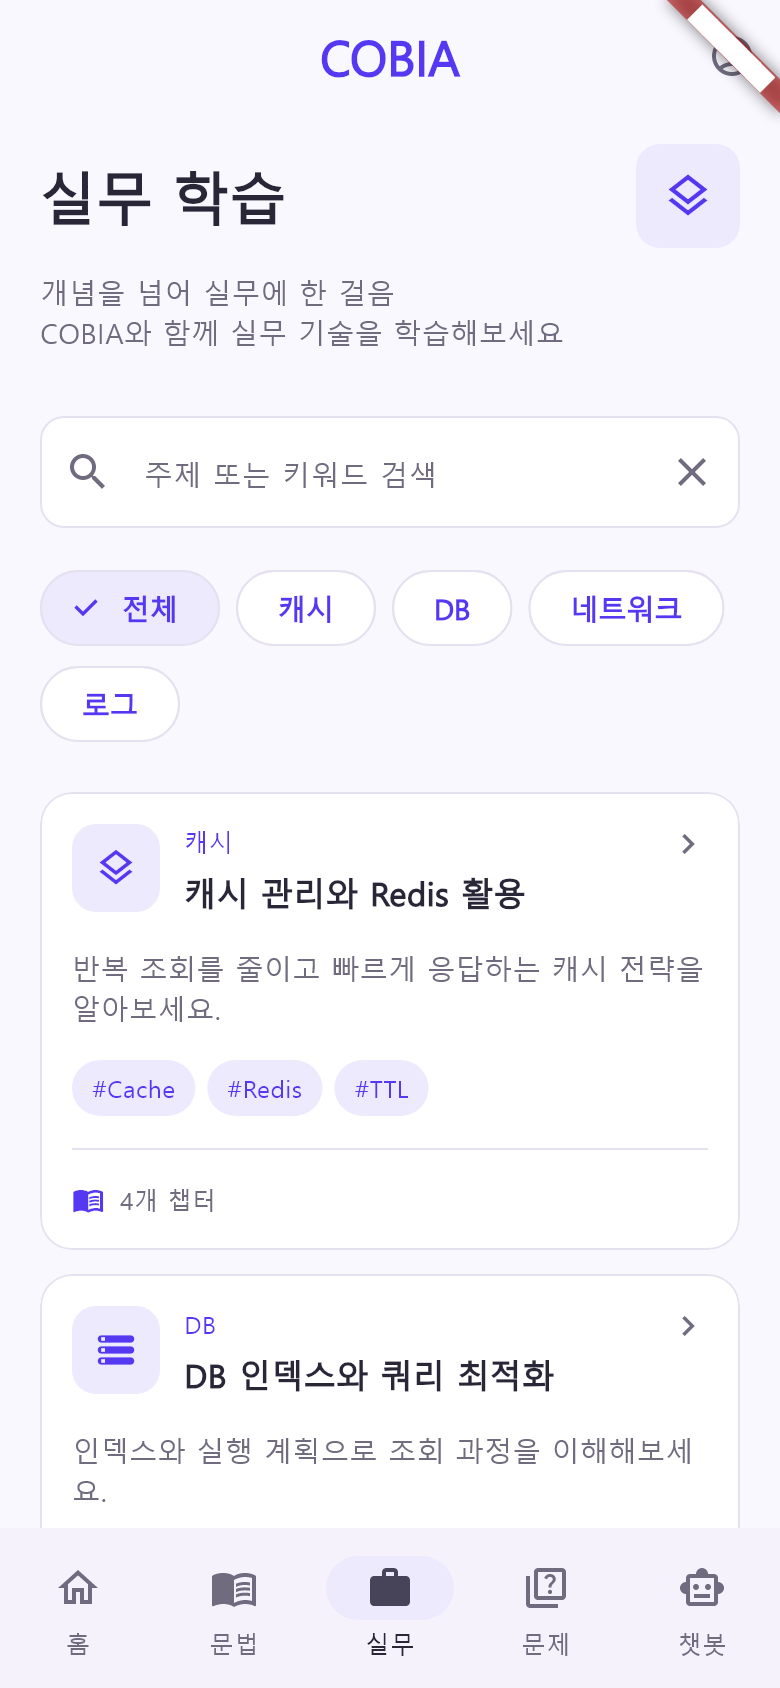
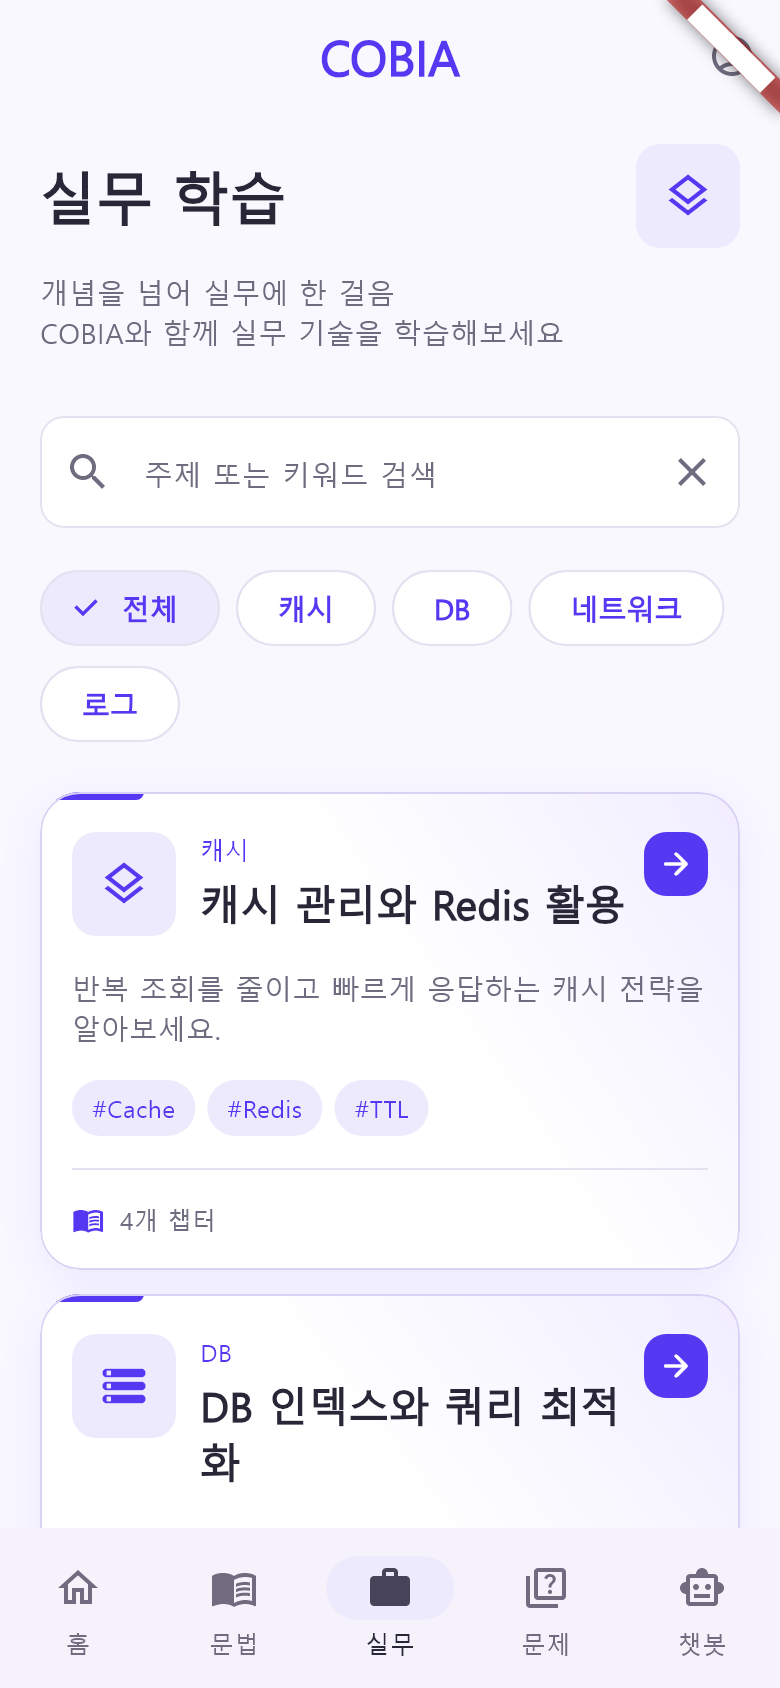
style: 실무 주제 카드 제목 및 진입 표시 강조

diff --git a/lib/features/practical/presentation/practical_topic_card.dart b/lib/features/practical/presentation/practical_topic_card.dart
@@ -1,3 +1,5 @@
+import '../../../app/widgets/learning_card.dart';
+
 import 'package:flutter/material.dart';
 
 import '../../../app/app_ui_tokens.dart';
@@ -20,80 +22,61 @@ class PracticalTopicCard extends StatelessWidget {
       'network' => Icons.language_rounded,
       _ => Icons.analytics_outlined,
     };
-    return Card(
-      margin: EdgeInsets.zero,
-      color: AppColors.surface,
-      elevation: 0,
-      shape: RoundedRectangleBorder(
-        borderRadius: BorderRadius.circular(AppRadii.card),
-        side: const BorderSide(color: AppColors.border),
-      ),
-      clipBehavior: Clip.antiAlias,
-      child: InkWell(
-        onTap: onTap,
-        child: Padding(
-          padding: const EdgeInsets.all(AppSpacing.card),
-          child: Column(
-            crossAxisAlignment: CrossAxisAlignment.stretch,
-            children: [
-              Row(
-                crossAxisAlignment: CrossAxisAlignment.start,
-                children: [
-                  LearningIcon(icon),
-                  const SizedBox(width: 12),
-                  Expanded(
-                    child: Column(
-                      crossAxisAlignment: CrossAxisAlignment.start,
-                      children: [
-                        Text(
-                          topic.category,
-                          style: AppTypography.meta.copyWith(
-                            color: AppColors.primary,
-                          ),
+    return LearningCard(
+      onTap: onTap,
+      child: Padding(
+        padding: const EdgeInsets.all(AppSpacing.card),
+        child: Column(
+          crossAxisAlignment: CrossAxisAlignment.stretch,
+          children: [
+            Row(
+              crossAxisAlignment: CrossAxisAlignment.start,
+              children: [
+                LearningIcon(icon, size: 52),
+                const SizedBox(width: 12),
+                Expanded(
+                  child: Column(
+                    crossAxisAlignment: CrossAxisAlignment.start,
+                    children: [
+                      Text(
+                        topic.category,
+                        style: AppTypography.meta.copyWith(
+                          color: AppColors.primary,
                         ),
-                        const SizedBox(height: 4),
-                        Text(topic.title, style: AppTypography.card),
-                      ],
-                    ),
+                      ),
+                      const SizedBox(height: 4),
+                      Text(topic.title, style: AppTypography.section),
+                    ],
                   ),
-                  const SizedBox(width: 8),
-                  const Icon(
-                    Icons.chevron_right,
-                    color: AppColors.textSecondary,
-                    size: 20,
-                  ),
-                ],
-              ),
-              const SizedBox(height: 16),
-              Text(topic.summary, style: AppTypography.helper),
-              const SizedBox(height: 16),
-              Wrap(
-                spacing: 6,
-                runSpacing: 6,
-                children: [
-                  for (final tag in topic.tags) LearningBadge('#$tag'),
-                ],
-              ),
-              const Padding(
-                padding: EdgeInsets.symmetric(vertical: 16),
-                child: Divider(height: 1, color: AppColors.border),
-              ),
-              Row(
-                children: [
-                  const Icon(
-                    Icons.menu_book_outlined,
-                    size: 16,
-                    color: AppColors.primary,
-                  ),
-                  const SizedBox(width: 8),
-                  Text(
-                    '${topic.chapters.length}개 챕터',
-                    style: AppTypography.meta,
-                  ),
-                ],
-              ),
-            ],
-          ),
+                ),
+                const SizedBox(width: 8),
+                const LearningCardArrow(),
+              ],
+            ),
+            const SizedBox(height: 16),
+            Text(topic.summary, style: AppTypography.helper),
+            const SizedBox(height: 16),
+            Wrap(
+              spacing: 6,
+              runSpacing: 6,
+              children: [for (final tag in topic.tags) LearningBadge('#$tag')],
+            ),
+            const Padding(
+              padding: EdgeInsets.symmetric(vertical: 16),
+              child: Divider(height: 1, color: AppColors.border),
+            ),
+            Row(
+              children: [
+                const Icon(
+                  Icons.menu_book_outlined,
+                  size: 16,
+                  color: AppColors.primary,
+                ),
+                const SizedBox(width: 8),
+                Text('${topic.chapters.length}개 챕터', style: AppTypography.meta),
+              ],
+            ),
+          ],
         ),
       ),
     );
